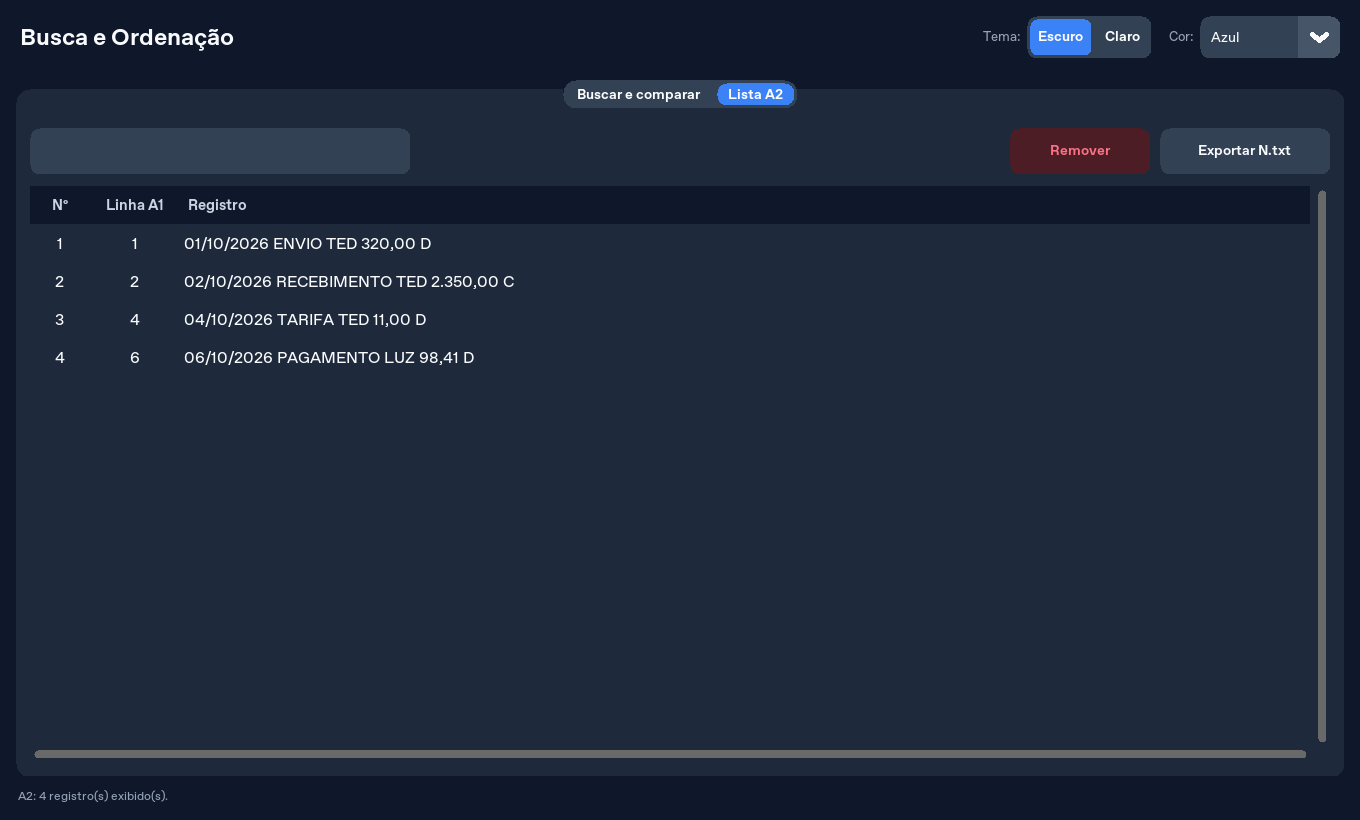
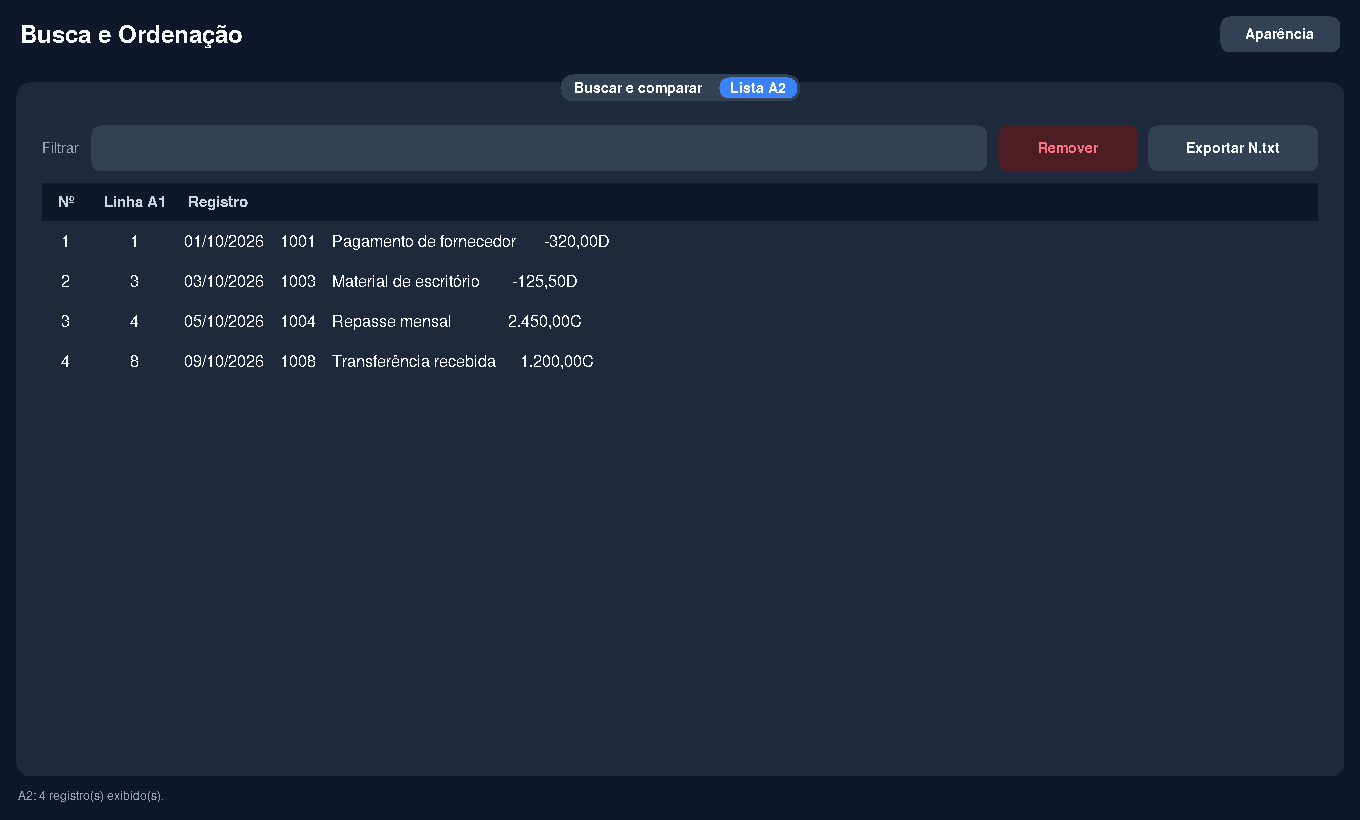
Corrige cliques e seleção e aproveita melhor o espaço da interface

diff --git a/main.py b/main.py
@@ -363,15 +363,19 @@ class App(ctk.CTk):
         self._sincronizando_selecao = False
 
         self.title("Sistema de Busca e Ordenação")
-        self.geometry("1360x820")
-        self.minsize(1100, 650)
+        largura = max(960, min(1360, self._reverse_window_scaling(self.winfo_screenwidth()) - 40))
+        altura = max(560, min(820, self._reverse_window_scaling(self.winfo_screenheight()) - 100))
+        self.geometry(f"{largura}x{altura}")
+        self.minsize(960, 560)
         self.configure(fg_color=c("bg"))
 
         self._montar_cabecalho()
 
         self.status = tk.StringVar(value="Pronto.")
-        ctk.CTkLabel(self, textvariable=self.status, anchor="w", text_color=c("cinza"),
-                     font=(FONTE, 12)).pack(side="bottom", fill="x", padx=18, pady=(0, 10))
+        self.label_status = ctk.CTkLabel(self, textvariable=self.status, anchor="w",
+                                        justify="left", text_color=c("cinza"), font=(FONTE, 12))
+        self.label_status.pack(side="bottom", fill="x", padx=18, pady=(0, 10))
+        self.label_status.bind("<Configure>", self.ajustar_status)
 
         self.abas = ctk.CTkTabview(
             self, corner_radius=14, fg_color=c("painel"),
@@ -398,6 +402,11 @@ class App(ctk.CTk):
             messagebox.showerror("Erro ao acessar arquivos", str(valor), parent=self)
         else:
             super().report_callback_exception(exc, valor, traceback)
+
+    def ajustar_status(self, evento):
+        largura = max(1, self.label_status._reverse_widget_scaling(self.label_status.winfo_width()))
+        if self.label_status.cget("wraplength") != largura:
+            self.label_status.configure(wraplength=largura)
 
     #  componentes reutilizáveis 
     def botao(self, pai, texto, comando, primario=False, perigo=False, largura=170, altura=46):
@@ -435,7 +444,16 @@ class App(ctk.CTk):
         tree.column("texto", minwidth=140)
         sb = ctk.CTkScrollbar(frame, command=tree.yview)
         horizontal = ctk.CTkScrollbar(frame, orientation="horizontal", command=tree.xview)
-        tree.configure(yscrollcommand=sb.set, xscrollcommand=horizontal.set)
+        def atualizar_barra(barra, inicio, fim):
+            barra.set(inicio, fim)
+            necessaria = float(inicio) > 0 or float(fim) < 1
+            if necessaria and not barra.winfo_manager():
+                barra.grid()
+            elif not necessaria and barra.winfo_manager():
+                barra.grid_remove()
+
+        tree.configure(yscrollcommand=lambda inicio, fim: atualizar_barra(sb, inicio, fim),
+                       xscrollcommand=lambda inicio, fim: atualizar_barra(horizontal, inicio, fim))
         frame.grid_rowconfigure(0, weight=1)
         frame.grid_columnconfigure(0, weight=1)
         tree.grid(row=0, column=0, sticky="nsew")
@@ -524,7 +542,7 @@ class App(ctk.CTk):
     #  aba 1: buscar no A1 
     def _montar_aba_busca(self):
         topo = ctk.CTkFrame(self.aba_busca, fg_color="transparent")
-        topo.pack(fill="x", padx=12, pady=(12, 20))
+        topo.pack(fill="x", padx=12, pady=(12, 12))
         self.busca_var = tk.StringVar()
         ctk.CTkLabel(topo, text="Pesquisar", font=(FONTE, 14),
                      text_color=c("cinza")).pack(side="left", padx=(0, 12))
@@ -534,7 +552,7 @@ class App(ctk.CTk):
         entrada.focus_set()
         self.botao(topo, "Buscar", self.buscar_a1, largura=110).pack(side="left", padx=10)
         self.botao(topo, "Limpar", self.mostrar_todos, largura=90).pack(side="left")
-        self.divisao = tk.PanedWindow(self.aba_busca, orient="horizontal", sashwidth=18,
+        self.divisao = tk.PanedWindow(self.aba_busca, orient="horizontal", sashwidth=12,
                                      bd=0, bg=cm("bg", self.modo), opaqueresize=True)
         self.divisao.pack(fill="both", expand=True)
         self.painel_busca = ctk.CTkFrame(self.divisao, bg_color=c("bg"), fg_color=c("painel"), corner_radius=8)
@@ -542,10 +560,10 @@ class App(ctk.CTk):
         self.divisao.add(self.painel_busca, minsize=380, stretch="always", width=600)
         self.divisao.add(self.aba_deb, minsize=440, stretch="always")
         self._divisao_posicionada = False
-        self.divisao.bind("<Map>", self.posicionar_divisao)
+        self.divisao.bind("<Configure>", self.posicionar_divisao)
         for painel in (self.painel_busca, self.aba_deb):
             painel.grid_columnconfigure(0, weight=1)
-            painel.grid_rowconfigure(0, minsize=96)
+            painel.grid_rowconfigure(0, minsize=88)
             painel.grid_rowconfigure(1, weight=1)
             painel.grid_rowconfigure(2, minsize=64)
         cabecalho = ctk.CTkFrame(self.painel_busca, fg_color="transparent")
@@ -570,7 +588,7 @@ class App(ctk.CTk):
                                           primario=True, largura=180, altura=40)
         self.botao_adicionar.pack(side="right")
         self.botao_adicionar.configure(state="disabled")
-        self.tree_busca.bind("<Double-1>", lambda e: self.adicionar_e_comparar())
+        self.tree_busca.bind("<Double-1>", self.adicionar_por_duplo_clique)
         self.tree_busca.bind("<<TreeviewSelect>>", self.atualizar_selecao_origem)
 
     def atualizar_selecao_origem(self, evento=None):
@@ -581,6 +599,13 @@ class App(ctk.CTk):
         self.sincronizar_selecao(self.tree_busca, self.tree_deb)
 
     def posicionar_divisao(self, evento):
+        for painel, minimo in ((self.painel_busca, 380), (self.aba_deb, 440)):
+            largura = round(painel._apply_widget_scaling(minimo))
+            if int(self.divisao.panecget(painel, "minsize")) != largura:
+                self.divisao.paneconfigure(painel, minsize=largura)
+            altura = round(painel._apply_widget_scaling(88))
+            if painel.grid_rowconfigure(0)["minsize"] != altura:
+                painel.grid_rowconfigure(0, minsize=altura)
         if not self._divisao_posicionada:
             self._divisao_posicionada = True
             self.after_idle(lambda: self.divisao.sash_place(0, int(self.divisao.winfo_width() * 0.45), 0))
@@ -611,8 +636,6 @@ class App(ctk.CTk):
         if self._sincronizando_selecao:
             return
         numeros = {origem.set(iid, "linha") for iid in origem.selection()}
-        if not numeros:
-            return
         selecao = tuple(iid for iid in destino.get_children() if destino.set(iid, "linha") in numeros)
         if destino.selection() != selecao:
             self._sincronizando_selecao = True
@@ -627,6 +650,15 @@ class App(ctk.CTk):
 
     def adicionar_e_comparar(self):
         self.adicionar_selecionados(comparar=True)
+
+    def adicionar_por_duplo_clique(self, evento):
+        if self.tree_busca.identify_region(evento.x, evento.y) != "cell":
+            return
+        item = self.tree_busca.identify_row(evento.y)
+        if item:
+            self.tree_busca.selection_set(item)
+            self.adicionar_e_comparar()
+            return "break"
 
     def adicionar_selecionados(self, comparar=False):
         sel = self.tree_busca.selection()
@@ -674,12 +706,16 @@ class App(ctk.CTk):
     #  aba 2: lista A2 
     def _montar_aba_a2(self):
         topo = ctk.CTkFrame(self.aba_a2, fg_color="transparent")
-        topo.pack(fill="x", padx=12, pady=(10, 18))
+        topo.pack(fill="x", padx=12, pady=(10, 12))
+        topo.grid_columnconfigure(1, weight=1)
         self.filtro_a2 = tk.StringVar()
         self.filtro_a2.trace_add("write", lambda *a: self.atualizar_a2())
-        self.campo(topo, self.filtro_a2, "Filtrar lista...").pack(side="left")
-        self.botao(topo, "Exportar N.txt", self.exportar, largura=170).pack(side="right")
-        self.botao(topo, "Remover", self.remover_a2, perigo=True, largura=140).pack(side="right", padx=10)
+        ctk.CTkLabel(topo, text="Filtrar", font=(FONTE, 14),
+                     text_color=c("cinza")).grid(row=0, column=0, padx=(0, 12))
+        self.campo(topo, self.filtro_a2, "Filtrar lista...").grid(row=0, column=1, sticky="ew")
+        self.botao(topo, "Remover", self.remover_a2, perigo=True, largura=140).grid(
+            row=0, column=2, padx=10)
+        self.botao(topo, "Exportar N.txt", self.exportar, largura=170).grid(row=0, column=3)
 
         frame, self.tree_a2 = self._tabela(
             self.aba_a2, [("ordem", "Nº"), ("linha", "Linha A1"), ("texto", "Registro")], [48, 90, 0])

diff --git a/tests/test_interface.py b/tests/test_interface.py
@@ -1,0 +1,132 @@
+import os
+import sys
+import tempfile
+import unittest
+from pathlib import Path
+
+import main
+
+
+@unittest.skipIf(sys.platform.startswith("linux") and not os.environ.get("DISPLAY"),
+                 "Requer uma sessão gráfica para exercitar a interface")
+class InterfaceTests(unittest.TestCase):
+    def setUp(self):
+        pasta = tempfile.TemporaryDirectory()
+        self.addCleanup(pasta.cleanup)
+        anterior = Path.cwd()
+        os.chdir(pasta.name)
+        self.addCleanup(os.chdir, anterior)
+        Path("a1.txt").write_text("Pagamento -100,00D\nCrédito 200,00C\n", encoding="utf-8")
+        Path("a2.txt").write_text("", encoding="utf-8")
+        self.app = main.App()
+        self.addCleanup(self.fechar_app)
+        self.erros = []
+        self.app.report_callback_exception = lambda *args: self.erros.append(args)
+        self.app.update()
+
+    def tearDown(self):
+        self.app.update()
+        self.assertFalse(self.erros)
+
+    def fechar_app(self):
+        for callback in self.app.tk.call("after", "info"):
+            self.app.tk.call("after", "cancel", callback)
+        self.app.destroy()
+
+    def duplo_clique(self, x, y):
+        for evento, tempo in (("<ButtonPress-1>", 1000), ("<ButtonRelease-1>", 1010),
+                              ("<ButtonPress-1>", 1100), ("<ButtonRelease-1>", 1110)):
+            self.app.tree_busca.event_generate(evento, x=x, y=y, time=tempo)
+        self.app.update()
+
+    def test_duplo_clique_vazio_ou_cabecalho_nao_adiciona_selecao_antiga(self):
+        for y in (10, self.app.tree_busca.winfo_height() - 30):
+            self.app.tree_busca.selection_set("0")
+            self.app.update()
+            self.duplo_clique(300, y)
+            self.assertEqual(main.carregar_linhas("a2.txt"), [])
+
+    def test_duplo_clique_em_registro_adiciona_a_linha_clicada(self):
+        self.app.tree_busca.selection_set("0")
+        self.app.update()
+        _, y, _, altura = self.app.tree_busca.bbox("1", "texto")
+        self.duplo_clique(300, y + altura // 2)
+        self.assertEqual(main.carregar_linhas("a2.txt"), ["[2] Crédito 200,00C"])
+        self.assertEqual(self.app.var_falta.get(), "1")
+
+    def test_limpar_selecao_sincroniza_os_dois_paineis(self):
+        self.app.tree_busca.selection_set("0")
+        self.app.update()
+        self.assertTrue(self.app.tree_deb.selection())
+        self.app.tree_busca.selection_remove("0")
+        self.app.update()
+        self.assertFalse(self.app.tree_deb.selection())
+        self.assertEqual(self.app.botao_adicionar.cget("state"), "disabled")
+        self.app.tree_deb.selection_set("1")
+        self.app.update()
+        self.assertTrue(self.app.tree_busca.selection())
+        self.app.tree_deb.selection_remove("1")
+        self.app.update()
+        self.assertFalse(self.app.tree_busca.selection())
+
+    def test_barras_aparecem_so_quando_ha_conteudo_fora_da_tabela(self):
+        tree = self.app.tree_busca
+        barras = [w for w in tree.master.winfo_children() if isinstance(w, main.ctk.CTkScrollbar)]
+        self.assertTrue(all(not w.winfo_ismapped() for w in barras))
+        Path("a1.txt").write_text(("Registro muito longo " * 40 + "100,00D\n") * 50, encoding="utf-8")
+        self.app.buscar_a1()
+        self.app.update()
+        self.assertTrue(all(w.winfo_ismapped() for w in barras))
+        tree.xview_moveto(1)
+        tree.yview_moveto(1)
+        self.app.update()
+        self.assertEqual(tree.xview()[1], 1)
+        self.assertEqual(tree.yview()[1], 1)
+        self.app.busca_var.set("sem resultado")
+        self.app.buscar_a1()
+        self.app.update()
+        self.assertTrue(all(not w.winfo_ismapped() for w in barras))
+
+    def test_redimensionamento_mantem_tabelas_alinhadas_e_controles_visiveis(self):
+        def conferir(widget):
+            for filho in widget.winfo_children():
+                if not filho.winfo_ismapped():
+                    continue
+                if isinstance(filho, (main.ctk.CTkButton, main.ctk.CTkEntry, main.ctk.CTkOptionMenu)):
+                    self.assertGreater(filho.winfo_width(), 1)
+                    self.assertGreaterEqual(filho.winfo_x(), 0)
+                    self.assertLessEqual(filho.winfo_x() + filho.winfo_width(), widget.winfo_width())
+                conferir(filho)
+
+        for modo in ("Claro", "Escuro"):
+            self.app.mudar_tema(modo)
+            for tamanho in ("960x560", "1100x650", "1360x820"):
+                self.app.geometry(tamanho)
+                self.app.update()
+                self.assertEqual(self.app.tree_busca.winfo_rooty(), self.app.tree_deb.winfo_rooty())
+                self.assertGreater(self.app.tree_busca.winfo_height(), 100)
+                conferir(self.app)
+                self.app.alternar_aparencia()
+                self.app.update()
+                self.app.abas.set("Lista A2")
+                self.app.update()
+                conferir(self.app)
+                self.app.abas.set("Buscar e comparar")
+                self.app.update()
+                conferir(self.app)
+                self.app.alternar_aparencia()
+                self.app.update()
+
+    def test_status_longo_quebra_linha_sem_alargar_a_janela(self):
+        self.app.geometry("960x560")
+        self.app.update()
+        altura = self.app.label_status.winfo_height()
+        largura = self.app.winfo_width()
+        self.app.status.set("Mensagem de operação com um caminho longo " * 8)
+        self.app.update()
+        self.assertGreater(self.app.label_status.winfo_height(), altura)
+        self.assertEqual(self.app.winfo_width(), largura)
+
+
+if __name__ == "__main__":
+    unittest.main()

diff --git a/README.md b/README.md
@@ -26,8 +26,15 @@ A situação aparece antes do registro, ficando visível mesmo em linhas longas.
 Na conferência, registros **OK** ficam em verde e **FALTA NO A2** em vermelho,
 tanto no tema claro quanto no escuro.
 
-A captura da tela inicial abaixo mostra esse layout. As demais capturas são
-anteriores à reorganização. As tabelas têm linhas e cabeçalhos espaçados, sem
+As barras de rolagem aparecem apenas quando há conteúdo fora da área visível.
+O cabeçalho aproveita melhor a altura da janela, e o filtro da Lista A2 se
+expande com a largura disponível. A janela inicial considera o tamanho da tela;
+mensagens longas no rodapé quebram linha para continuar legíveis.
+Duplo clique adiciona apenas o registro clicado: cabeçalhos e áreas vazias não
+adicionam a seleção anterior. Limpar a seleção também limpa o outro painel.
+
+As capturas da tela inicial e da Lista A2 mostram esse layout. As capturas de
+pesquisa e créditos são anteriores à reorganização. As tabelas têm linhas e cabeçalhos espaçados, sem
 a coluna **Tipo**, e **Registro** é dimensionado pelo conteúdo.
 Use a barra horizontal para ler linhas longas por inteiro e arraste a divisória
 central para ampliar um dos painéis.
@@ -142,3 +149,8 @@ O arquivo de exemplo do commit `5ac63f7` contém 98 registros sem datas explíci
 
 O relatório trata o conteúdo dos registros como texto, inclusive caracteres
 como `<`, `>` e `&`. A impressão depende do navegador e da impressora disponível.
+
+Para executar os testes, use `.venv/bin/python -m unittest discover -s tests -v`.
+Os testes da interface precisam de uma sessão gráfica; no Linux sem `DISPLAY`,
+eles são indicados como ignorados. Com sessão gráfica, a suíte verifica cliques,
+seleção, rolagem, mensagens e redimensionamento, além da comparação dos registros.
